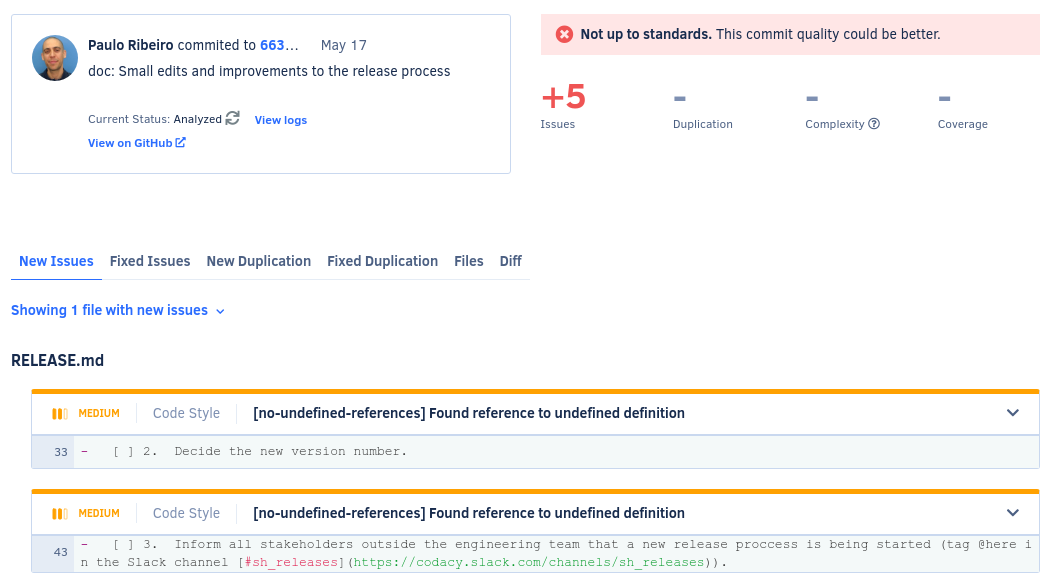
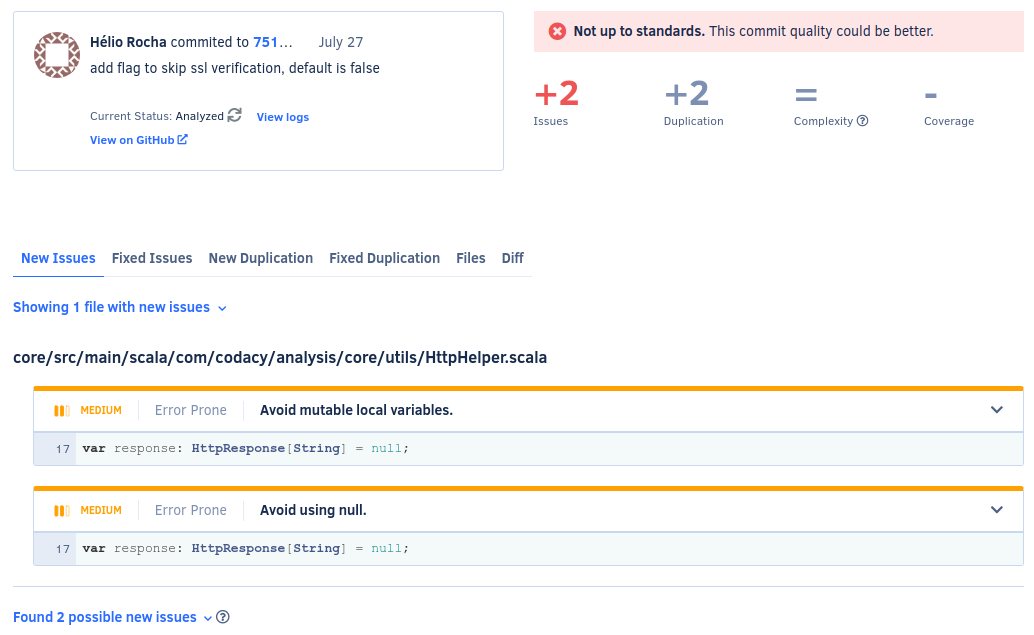
feature: Explain how to read code quality changes overview DOCS-313 (#920)
* feature: Explain how to read code quality changes overview

* feature: Update commit details screenshot

The new screenshot includes a metric that didn't change.

* fix: Remove redundant spaces in blank line

diff --git a/docs/repositories/commits.md b/docs/repositories/commits.md
@@ -17,6 +17,11 @@ The commit detail displays:
 -   The list of issues and duplication blocks that the commit created or fixed
 -   The list of files and the lines of code changed in the commit
 
+    !!! note
+        The changes in the number of issues and code quality metrics introduced by the commit are displayed either as a **positive or negative variation**, or **no variation** (represented by `=`).
+
+        Depending on the languages being analyzed or if you haven't [set up coverage for your repository](../coverage-reporter/index.md), **some metrics may be missing** (represented by `-`).
+
 ![New issues in the commit detail](images/commits-detail.png)
 
 {%
